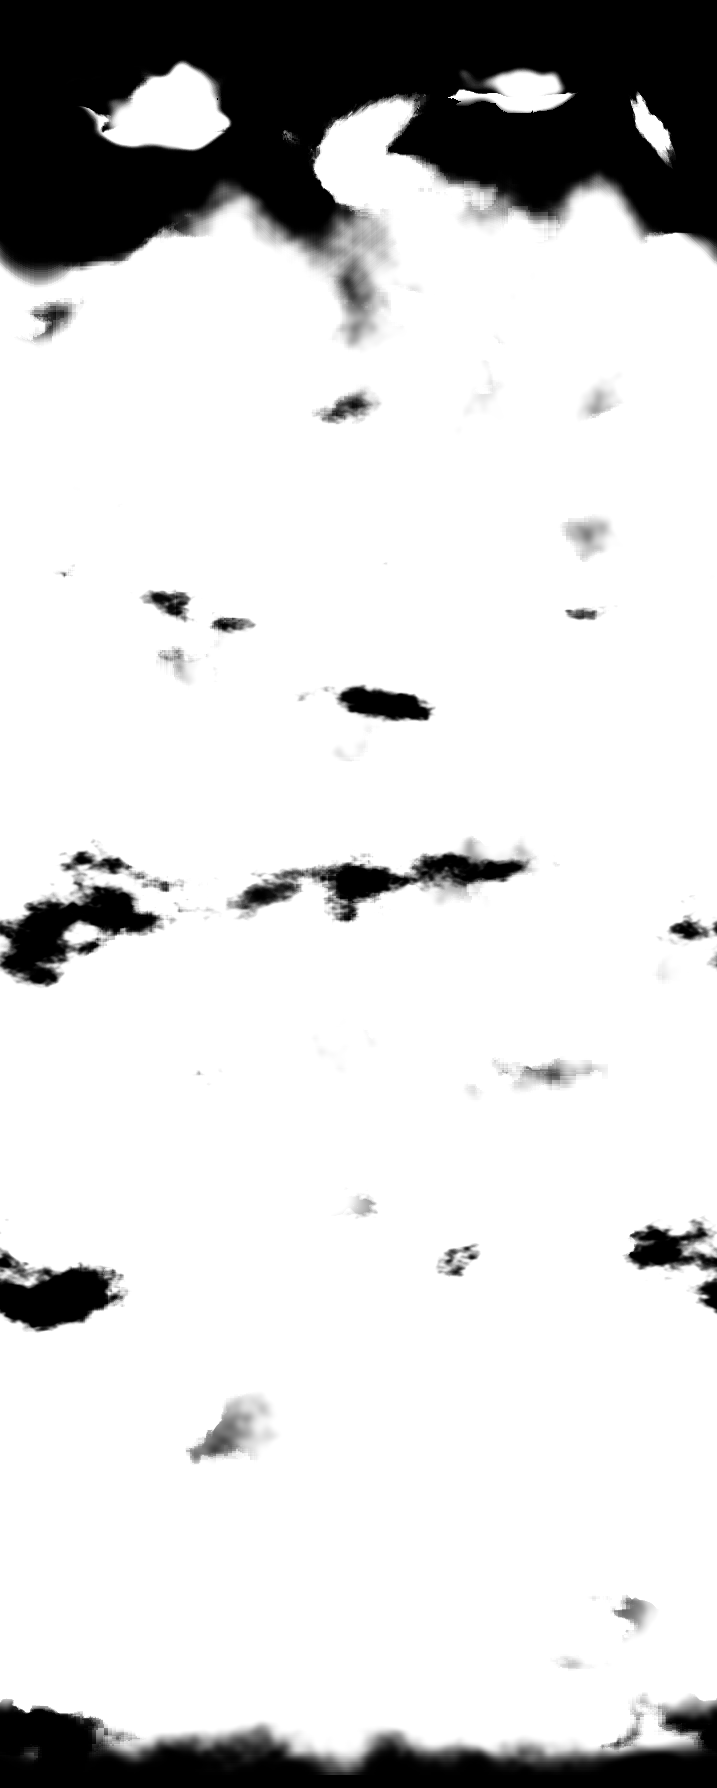
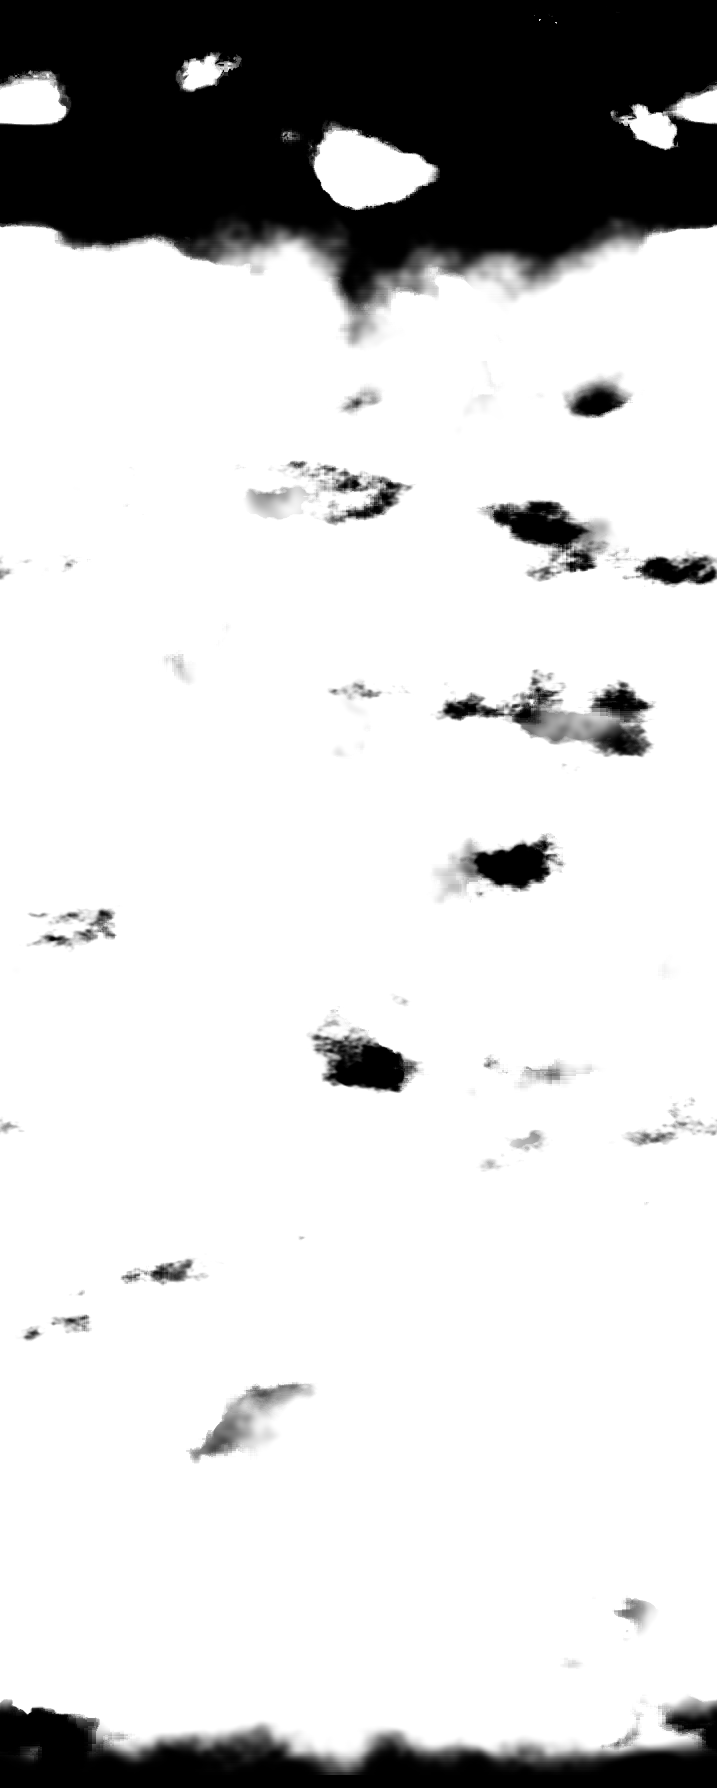
Cloud bank: back to its own shape, with two of its clouds copied higher up
The bent outline and the made-up clouds are gone. Instead the bank's two
floating clouds are copied (mirrored, only the cloud, not its haze) to
other places higher up, at about the logo's height. The masks made from
the bank follow.

diff --git a/tools/cloud_gaps.py b/tools/cloud_gaps.py
@@ -1,5 +1,5 @@
-"""Shapes the cloud bank: an uneven top edge, two clouds on their own above it, and soft
-gaps where the blue behind it shows (style.css puts a blue sky behind the bank's thick
+"""Shapes the cloud bank: two more clouds on their own above it (copies of its own),
+and soft gaps where the blue behind it shows (style.css puts a blue sky behind the bank's thick
 part). Needs numpy and Pillow.
 
     python tools/cloud_gaps.py tools/clouds-solid.webp <out dir>
@@ -14,7 +14,7 @@ then run tools/cloud_depth.py again (its masks and textures are made from the ba
 """
 import sys
 import numpy as np
-from PIL import Image, ImageFilter
+from PIL import Image
 
 src, out = sys.argv[1], sys.argv[2]
 rng = np.random.default_rng(3)
@@ -40,34 +40,34 @@ im = np.asarray(Image.open(src).convert("RGBA")).astype(np.float32)
 H, W = im.shape[:2]
 v = np.linspace(0, 1, H)[:, None]
 
-# The top edge: not level. The bank's outline (not its texture) is moved up or down
-# column by column (by up to 5% of the height, smoothly, a few rises and dips across
-# the width); where it now reaches higher, it's filled with cloud from further down.
-low = im[np.clip(np.arange(H) + int(0.18 * H), 0, H - 1)][..., :3]
-rise = noise(1, W, [((1, W * 0.18), 0.75), ((1, W * 0.07), 0.25)])[0]
-rise = (rise - 0.5) * 2 * 0.05 * H
-rows = np.clip(np.arange(H)[:, None] + rise[None, :] * (1 - smooth(0.25, 0.4, v)), 0, H - 1)
-cols = np.arange(W)[None, :]
-a0 = im[..., 3].copy()
-a1 = a0[np.round(rows).astype(int), cols]
-more = np.clip((a1 - a0) / 255, 0, 1)[..., None]
-im[..., :3] = im[..., :3] * (1 - more) + low * more
-im[..., 3] = a1
+# A couple more clouds on their own, higher up: copies (mirrored) of the bank's own two
+# floating clouds, placed elsewhere along the width and higher, at about the logo's
+# height as the bank comes. Only the cloud itself is copied (not the thin haze around
+# it), its edges feathered.
+def patch(r0, r1, c0, c1):
+    p = im[int(r0 * H):int(r1 * H), int(c0 * W):int(c1 * W)].copy()
+    h, w = p.shape[:2]
+    fy = smooth(0, 25, np.arange(h)) * smooth(0, 25, h - 1 - np.arange(h))
+    fx = smooth(0, 25, np.arange(w)) * smooth(0, 25, w - 1 - np.arange(w))
+    a = p[..., 3] / 255
+    p[..., 3] = 255 * a * smooth(0.12, 0.45, a) * fy[:, None] * fx[None, :]  # the cloud, not the haze around it
+    return p[:, ::-1]
 
-# Two clouds on their own, higher up, at about the logo's height as the bank comes:
-# lumpy, lit from above, with the bank's own cloud in them.
-yy, xx = np.mgrid[0:H, 0:W].astype(np.float32)
-lumpy = noise(H, W, [((28, 34), 0.7), ((10, 12), 0.3)])
-for cx, cy, rx, ry in ((0.22, 0.06, 0.15, 0.03), (0.69, 0.045, 0.12, 0.024)):
-    dx = np.abs(xx / W - cx)
-    dx = np.minimum(dx, 1 - dx) / rx
-    d = np.sqrt(dx ** 2 + ((yy / H - cy) / ry) ** 2)
-    blob = smooth(0.36, 0.7, lumpy * 0.55 + (1 - d) * 0.6)
-    blob = np.asarray(Image.fromarray((blob * 255).astype(np.uint8)).filter(ImageFilter.GaussianBlur(4))).astype(np.float32) / 255
-    lit = np.clip(0.92 + 0.9 * (blob - np.roll(blob, 18, axis=0)), 0.8, 1.06)[..., None]
-    new = blob * 235 > im[..., 3]
-    im[..., :3] = np.where(new[..., None], np.clip(low * lit, 0, 255), im[..., :3])
-    im[..., 3] = np.maximum(im[..., 3], blob * 235)
+
+def place(p, r, c):
+    h, w = p.shape[:2]
+    y0, x0 = int(r * H), int(c * W)
+    for dx in range(w):  # (wrapping at the sides)
+        x = (x0 + dx) % W
+        a = p[:, dx, 3:4] / 255
+        im[y0:y0 + h, x, :3] = p[:, dx, :3] * a + im[y0:y0 + h, x, :3] * (1 - a)
+        im[y0:y0 + h, x, 3] = np.maximum(im[y0:y0 + h, x, 3], p[:, dx, 3])
+
+
+big = patch(0.062, 0.111, 0.36, 0.68)
+small = patch(0.05, 0.092, 0.82, 0.99)
+place(big, 0.028, 0.86)
+place(small, 0.02, 0.2)
 
 n = noise(H, W, [((45, 110), 0.75), ((16, 34), 0.25)])  # blobs wider than tall
 band = smooth(0.2, 0.26, v) * (1 - smooth(0.74, 0.8, v))

diff --git a/README.md b/README.md
@@ -3,7 +3,7 @@
 Static website, served by Render from `public/` (no build step).
 
 - `public/favicon.png`, `apple-touch-icon.png` — the icon: mountain ridges in the evening haze
-- `tools/cloud_gaps.py` — shapes the cloud bank: an uneven top edge, two clouds on their own above it, and soft gaps (from `tools/clouds-solid.webp`), where a blue sky behind it shows
+- `tools/cloud_gaps.py` — shapes the cloud bank: two more clouds on their own above it (copies of its own, mirrored, higher up), and soft gaps (from `tools/clouds-solid.webp`), where a blue sky behind it shows
 - `public/laurels.webp` — festival laurels at the top of the homepage, nine in one strip, each sized to the same visual weight, built from the trimmed originals in `tools/laurels/` (one row beside the menu button; on phones the same strip in one row above the logo, drifting right to left for ever and draggable (main.js))
 - `public/index.html`, `style.css`, `main.js` — homepage: logo over the sky photo (`sky.webp`), the storm clouds (`clouds.webp`, a seamless sideways tile drifting steadily with the wind; the sky photo behind the logo moves up at a quarter of the scrolling; the logo and its button are masked with `clouds-mask.webp` so they go behind the bank (hidden even where it is only haze) instead of showing through; nearer layers move and drift faster the closer they are: puffs between the bank and the texts (`clouds-mid.webp`) and see-through wisps in front of them (`clouds-veil.webp`, well blurred), all made by `tools/cloud_depth.py`; the wisps (already up in the sky over the logo when the page opens, sparse there) cast shadows of their own shape and edge (soft or crisp) 0.2 of a screen straight below themselves, as from a high sun (none behind a wisp; baked into `clouds-shade.webp`; the wisps are one long strip, few of them, fading away as the video comes up, with clear sky around the logo as the page opens and a group above the last quote, for its shadows), on the letters of the logo, the texts and the press logos only (a darkened copy of the logo masked with `clouds-shade.webp`; the texts' colour is a background clipped to the letters with those shapes over it), following their drift; the logline and quotes ride up into the centre and stay, the last (Variety) going behind the cumulus near the bank's bottom as it rises (masked with `clouds-below-mask.webp`); arriving over the top third of the video and staying there with it, blurring with it and dissolving as the synopsis comes into focus, made from the storm photo by `tools/clouds.py`: a top edge shaped by the cloud forms, softened toward the film's overcast sky lower down, the thick middle extended, the bottom faded) scroll up over it carrying the logline and two press quotes (Screen Daily, then Variety; logos `press-*.png`), each cross-fading into the next and fade onto the film clip (`bg2-light.mp4`, 1280 wide and under 1 MB, is what the loading screen waits for; the full-quality `bg2.mp4`, 12 s, 1920×1072, H.264, no audio, then loads behind it and fades in over it, in step; `bg2-poster.webp`, its first frame, shows until it plays), which plays and loops on its own while on screen (on phones it starts 2 s in the first time, then loops whole; `bg2-poster-mobile.webp` is that frame); scrolling on blurs it (not fully; no zoom); as it blurs, the poster (`poster.webp`), the synopsis and the About the film and trailer buttons come into focus in place, over the blurred video, still playing (on phones stacked: poster full width, heading, synopsis, buttons, footer, moved up by main.js over the pinned video as you scroll, from the moment it starts to show), and the page ends there. A loading screen (the light sky colour #939ca2, a small dark blue bar and percentage) holds the page until fonts, images and the clip are loaded; then the logo comes into focus
 - `public/gate.js` — password screen on every page (remembered in the browser once entered). Keeps casual visitors out only: the files themselves stay reachable. To change the password, put its hash (see `hash()` in the file) in `HASH`
